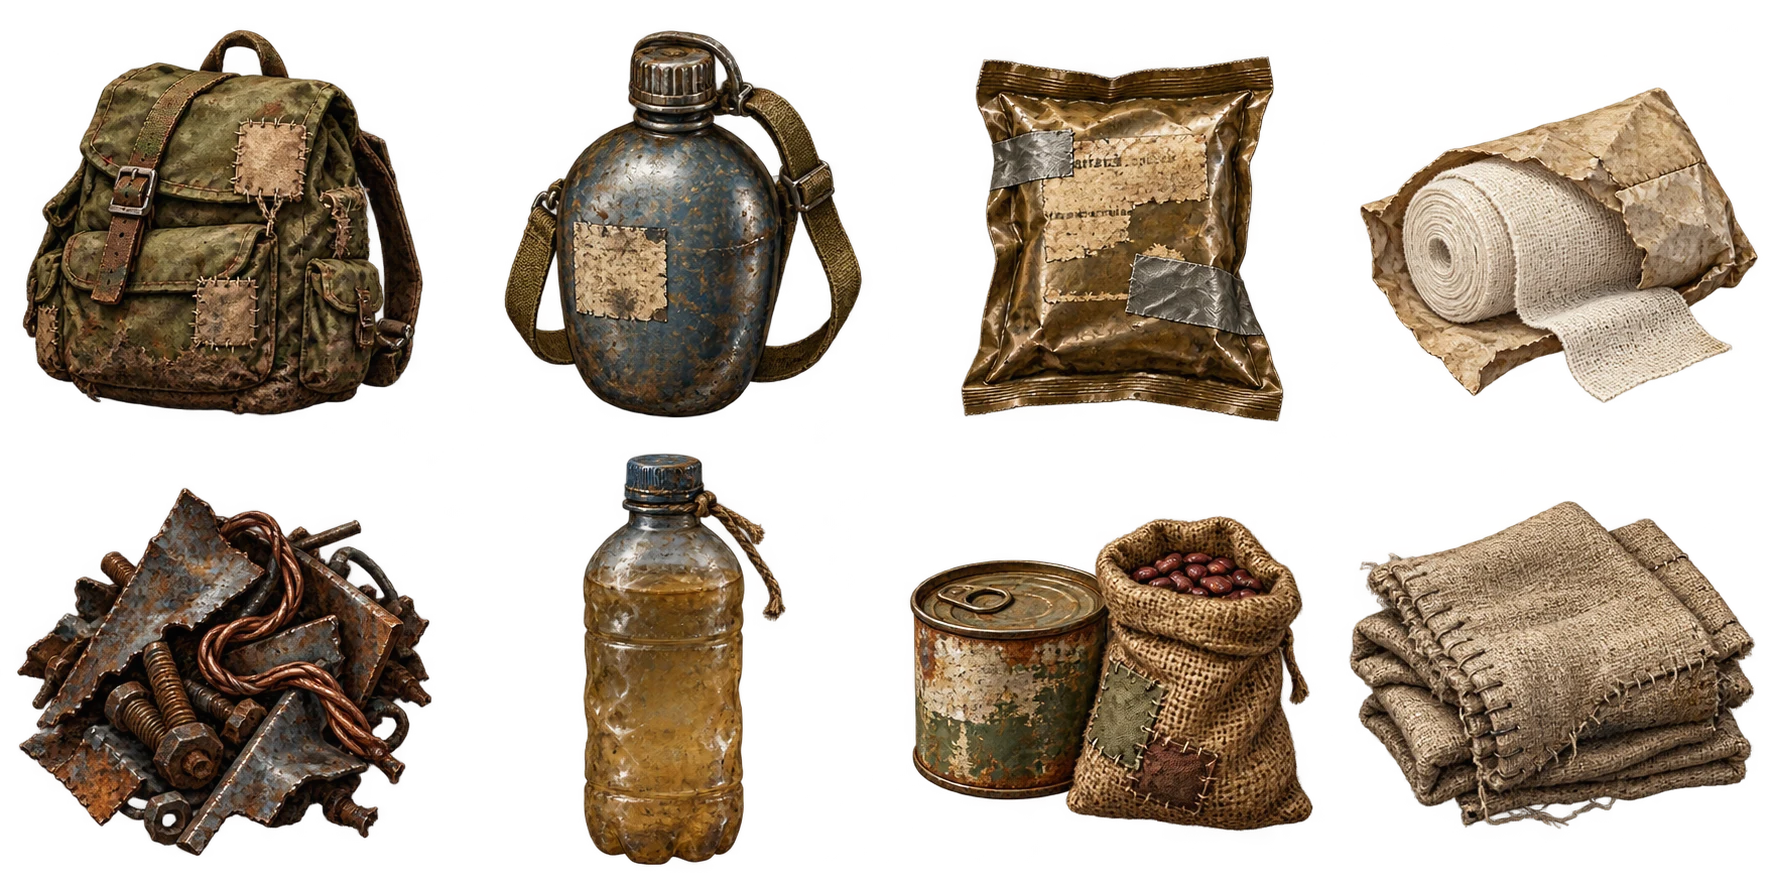
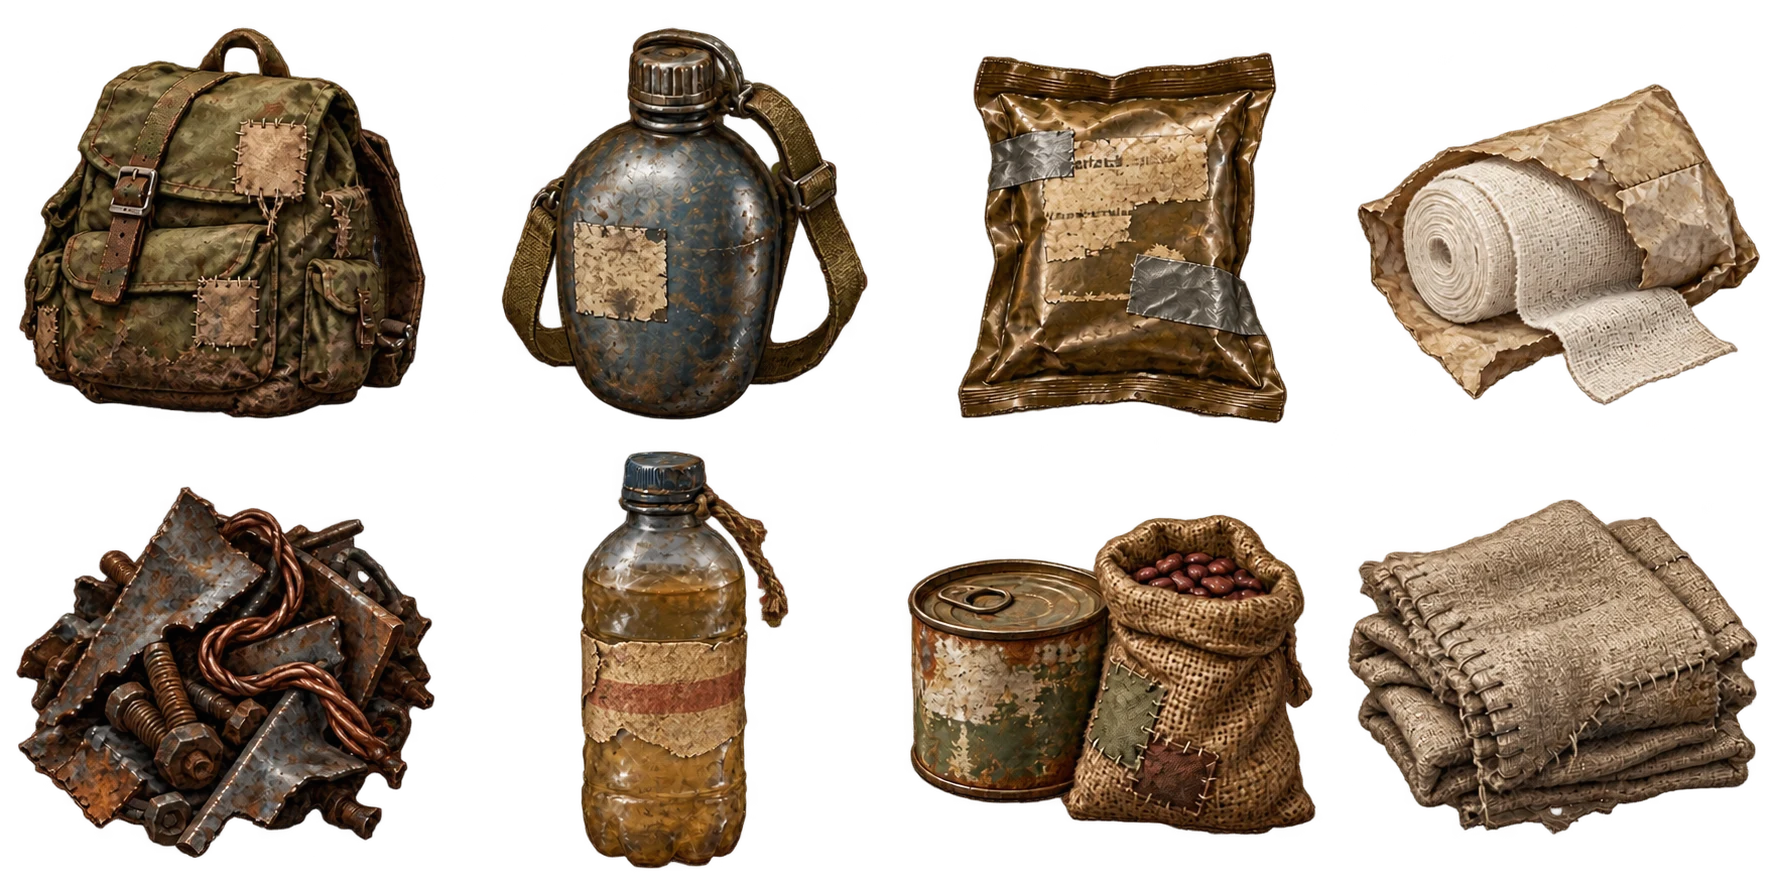
Dodaj zużytą etykietę na butelce wody do uzdatnienia

diff --git a/public/art/README.md b/public/art/README.md
@@ -9,3 +9,6 @@ składniki żywnościowe, czysta tkanina.
 Mapowanie znajduje się w `src/ui/ItemArt.tsx`, a rozmiar i pozycjonowanie w
 `src/ui/inventory.css`. Przy zmianie kolejności atlasu zaktualizuj mapowanie.
 Ilustracje zużycia są dekoracyjne i nie wyznaczają mechanicznego stanu przedmiotu.
+
+Butelka wody do uzdatnienia ma dodaną przez edycję AI wyblakłą, podartą etykietę
+z czerwonym paskiem, bez czytelnych napisów i znaków towarowych.
